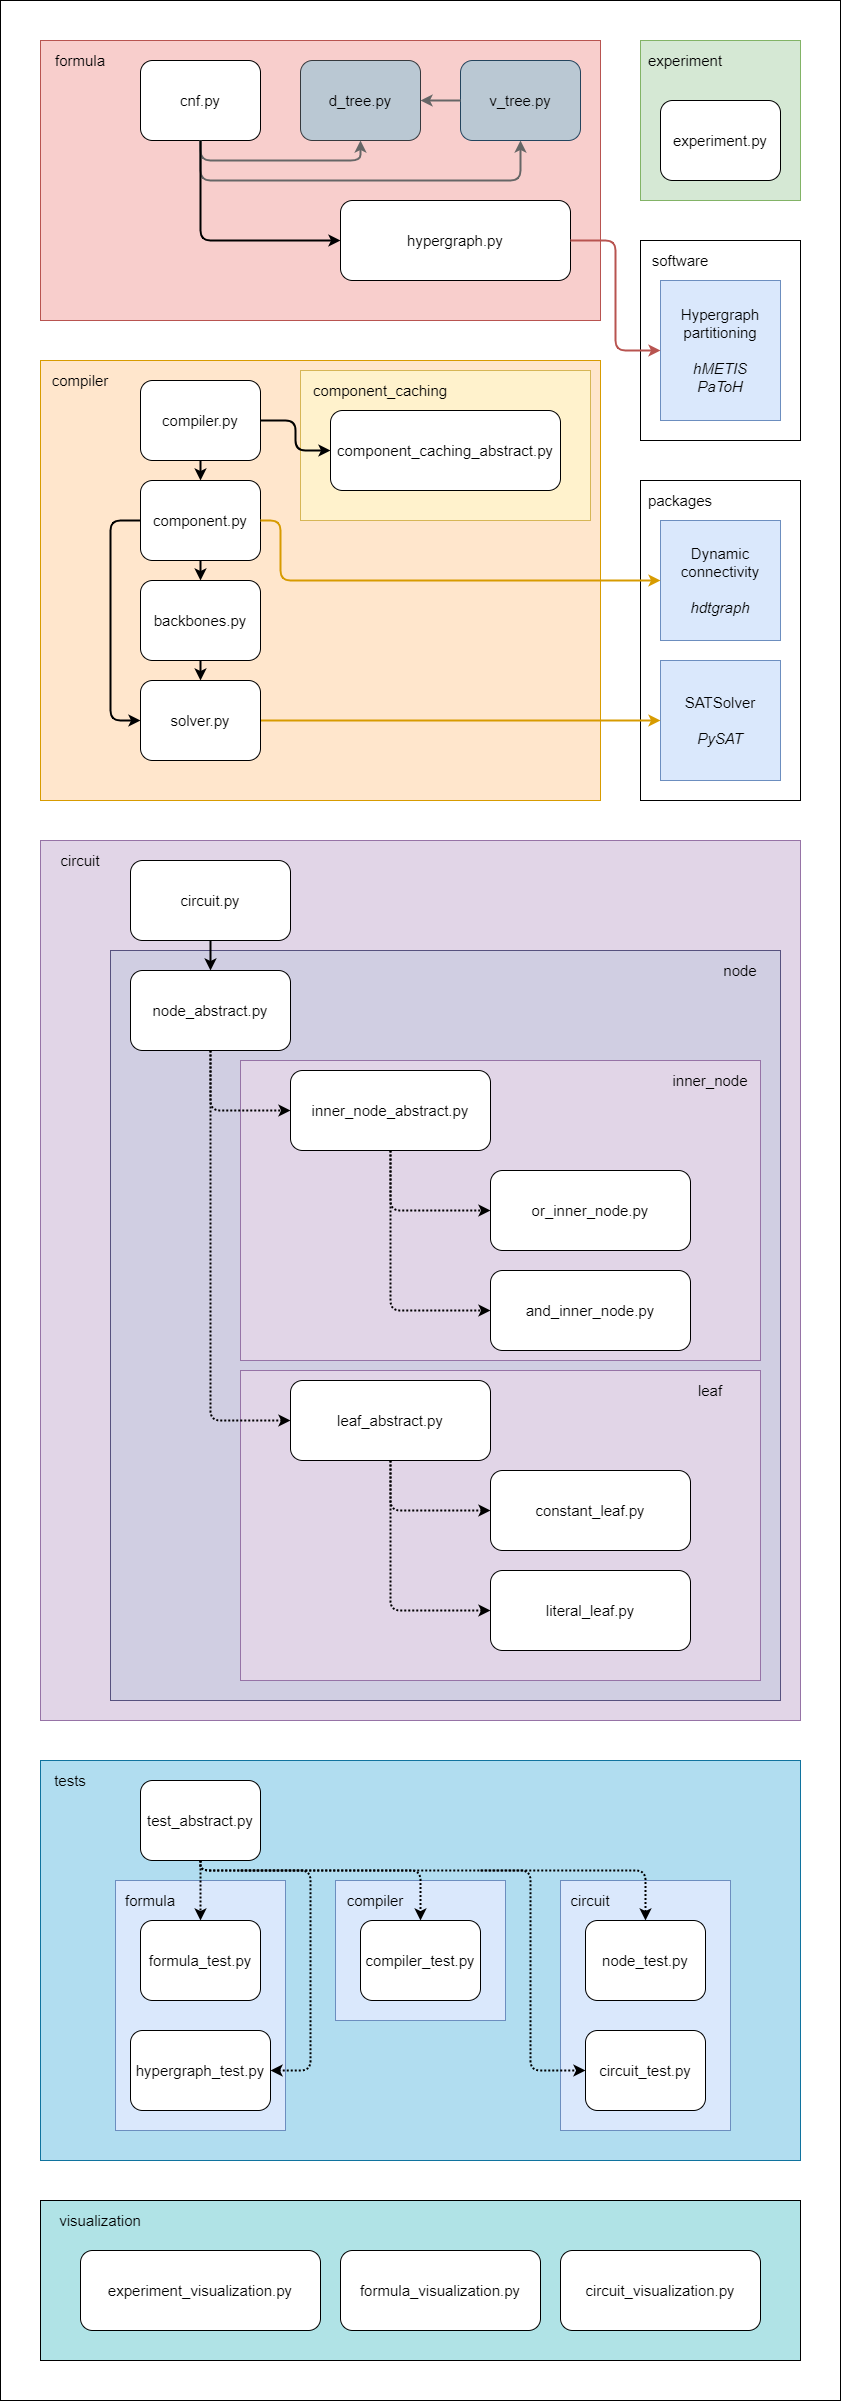
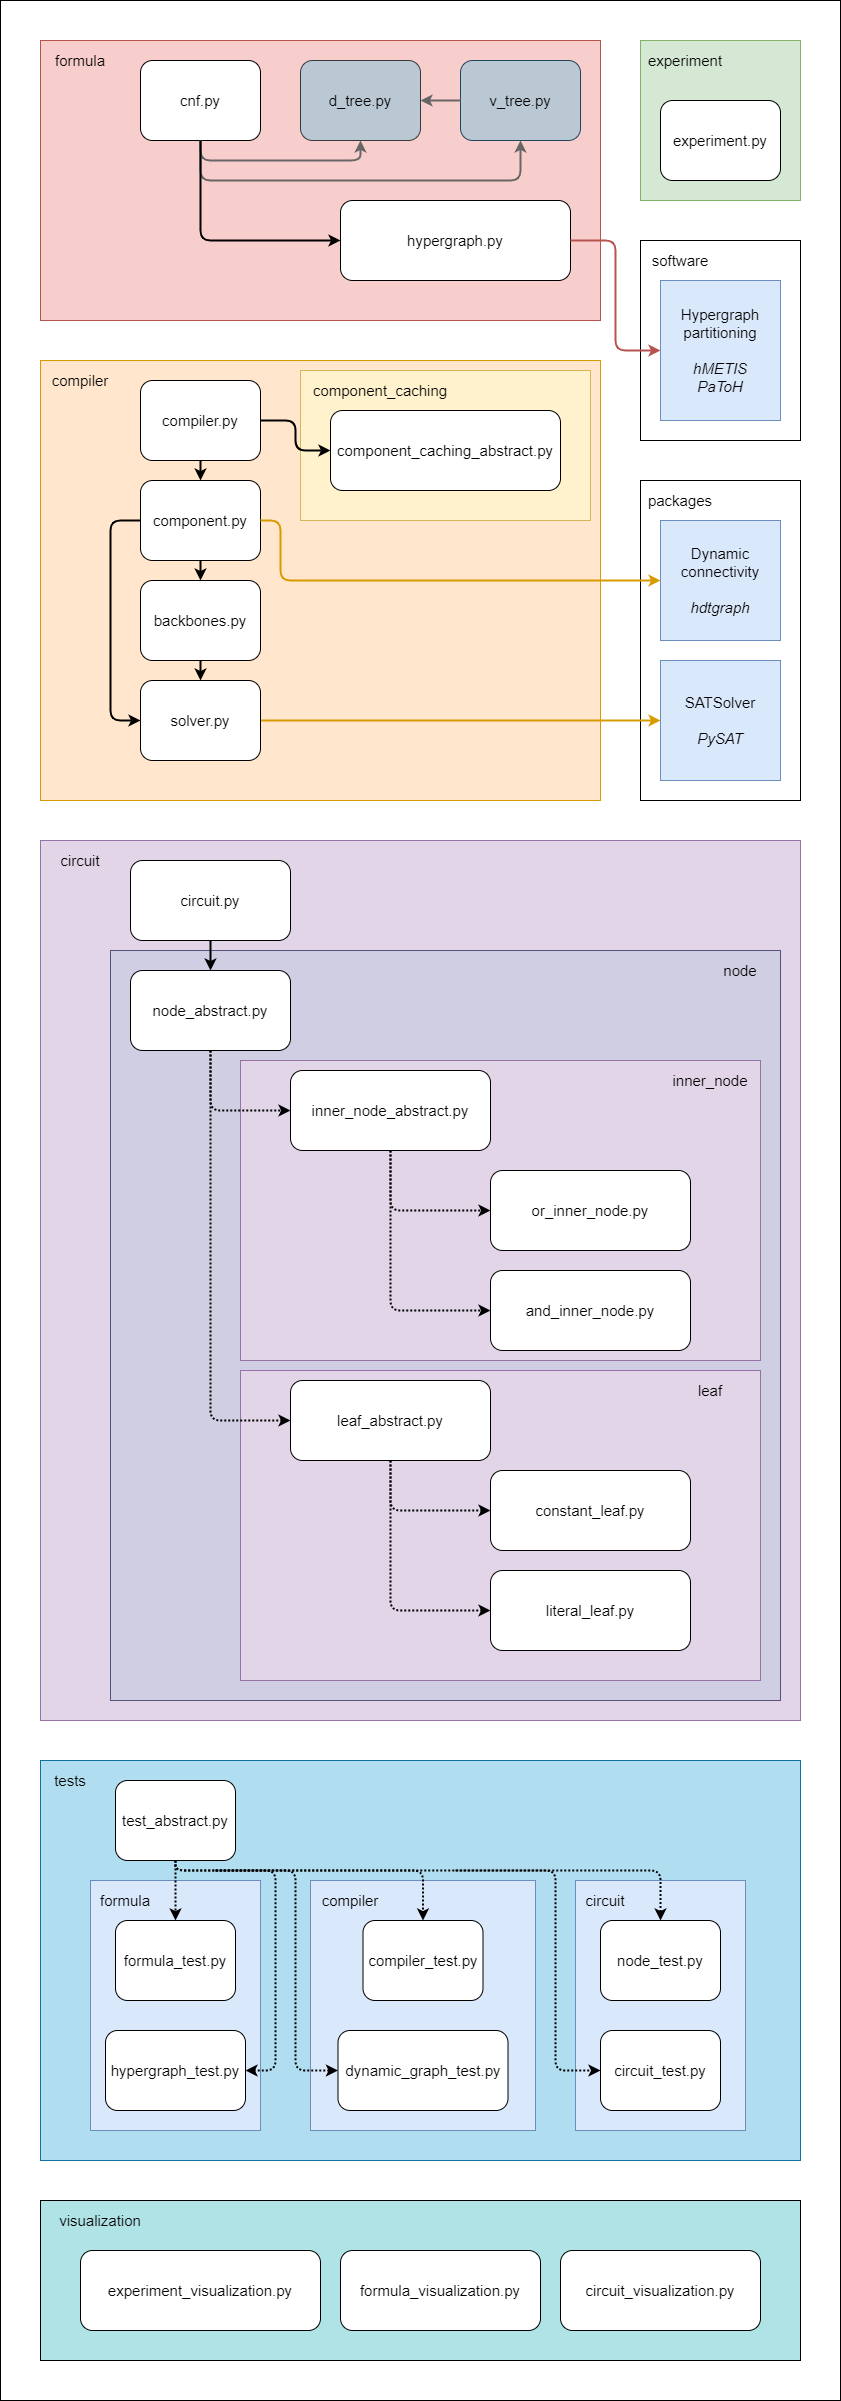
None

Changed region(s): [[0.2473, 0.7185, 0.742, 0.9059], [0.0927, 0.7185, 0.2164, 0.9059], [0.8038, 0.7809, 0.8966, 0.9059]]

diff --git a/tests/compiler/dynamic_graph_test.py b/tests/compiler/dynamic_graph_test.py
@@ -32,7 +32,7 @@ class DynamicGraphTest(TestAbstract):
                     result = "\n".join((result, sorted_component.str_delimiter(', ')))
 
                 result = "\n".join((result, "Number of edges"))
-                edge_list_temp = [(1, 2), (1, 3), (1, 4), (1, 5), (2, 3), (2, 4), (2, 5), (3, 4), (3, 5), (4, 5)]
+                edge_list_temp = [(i, j) for i in range(1, 6) for j in range(1, 6) if i < j]
                 for node_a, node_b in edge_list_temp:
                     result = "\n".join((result, f"({node_a} - {node_b}): {dynamic_graph.get_number_of_edges(node_a, node_b)}"))
 
@@ -74,7 +74,7 @@ class DynamicGraphTest(TestAbstract):
             # Duplicated edges (delete)
             edge_list = [(1, 3), (1, 2), (1, 3), (4, 5), (1, 2), (5, 1), (6, 7)]
             for node_1, node_2 in edge_list:
-                actual_result = "\n".join((actual_result, f"Remove the edge ({node_1} - {node_2})"))
+                actual_result = "\n".join((actual_result, f"Remove an edge ({node_1} - {node_2})"))
                 dynamic_graph.delete_edge(node_1, node_2)
                 actual_result = "\n".join((actual_result, dynamic_graph_str(dynamic_graph)))
 
@@ -91,6 +91,13 @@ class DynamicGraphTest(TestAbstract):
 
             dynamic_graph.insert_edge(1, 6)
             actual_result = "\n".join((actual_result, dynamic_graph_str(dynamic_graph)))
+
+            # Insert more edges at once
+            edge_list = [(1, 2, 3), (1, 2, 2), (4, 5, 2), (4, 5, 1)]
+            for node_1, node_2, number in edge_list:
+                actual_result = "\n".join((actual_result, f"Add {number} edge(s) ({node_1} - {node_2})"))
+                dynamic_graph.insert_edge(node_1, node_2, number_of_edges=number)
+                actual_result = "\n".join((actual_result, dynamic_graph_str(dynamic_graph)))
         except Exception as err:
             actual_result = "\n".join((actual_result, str(err)))
 
